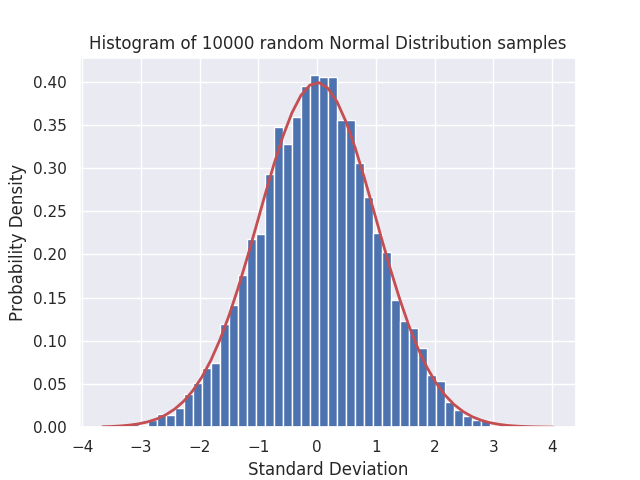
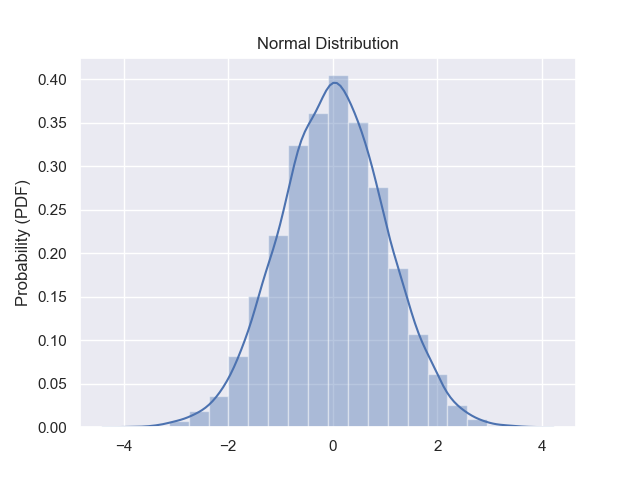
distribution plots

diff --git a/_code/distributions_demo.py b/_code/distributions_demo.py
@@ -2,7 +2,7 @@ import numpy as np
 import matplotlib.pyplot as plt
 import seaborn as sns
 import os
-from scipy.stats import skewnorm
+from scipy.stats import gamma, skewnorm, skew
 
 sns.set()
 
@@ -19,46 +19,66 @@ n = 10000  # number of samples
 normal_values = np.random.normal(mu, sigma, n)
 
 # plot histogram
-_, bins, __ = plt.hist(normal_values, 20, density=True, alpha=0.8)
-plt.title(f'Histogram of {n} Normal Distribution')
-plt.ylabel('Probability Density')
-plt.xlabel('Standard Deviation')
-
-# plot probability density function on top of histogram
-plt.plot(bins, 1/(sigma * np.sqrt(2 * np.pi)) *
-         np.exp(-(bins - mu) ** 2 / (2 * sigma ** 2)),
-         linewidth=2, color='r')
+sns.distplot(normal_values, bins=20)
+plt.title('Normal Distribution')
+plt.ylabel('Probability (PDF)')
 plt.savefig(root_dir + '/images/normal_distribution.png')
 plt.show()
+
+dist_mean = np.round(normal_values.mean(), 4)
+dist_std = np.round(normal_values.std(), 4)
+dist_skew = np.round(skew(normal_values), 4)
+print(f'Normal Skewed mean: {dist_mean}')
+print(f'Normal Skewed  std: {dist_std}')
+print(f'Normal Skewed skew: {dist_skew}\n')
+
+# plot left skewed box plot
+sns.boxplot(normal_values)
+plt.title('Normal Distribution Box Plot')
+plt.savefig(root_dir + '/images/left_skewed_boxplot.png')
+plt.show()
+
+
 
 
 # create right skewed distribution
 skew_factor = 4
-rv = skewnorm(skew_factor)
-x = np.linspace(skewnorm.ppf(0.000000001, skew_factor), skewnorm.ppf(0.9999999999, skew_factor), 100)
-x -= 10
-plt.plot(x, rv.pdf(x), 'k-', lw=2, color='r')
-right_skewed = skewnorm.rvs(skew_factor, size=10000)
-right_skewed -= 10
-plt.hist(right_skewed, 20, density=True, alpha=0.8)
-plt.title(f'Histogram of {n} Right Skewed Normal Distribution')
-plt.ylabel('Probability Density')
-plt.xlabel('Standard Deviation')
-# plt.savefig(...)
+right_skewed_values = gamma.rvs(a=skew_factor, size=10000)
+sns.distplot(right_skewed_values, kde=True, bins=20)
+plt.title(f'Right Skewed Distribution')
+plt.ylabel('Probability (PDF)')
+plt.savefig(root_dir + '/images/right_skewed_distribution.png')
 plt.show()
+
+dist_mean = np.round(right_skewed_values.mean(), 4)
+dist_std = np.round(right_skewed_values.std(), 4)
+dist_skew = np.round(skew(right_skewed_values), 4)
+print(f'Right Skewed mean: {dist_mean}')
+print(f'Right Skewed  std: {dist_std}')
+print(f'Right Skewed skew: {dist_skew}\n')
 
 
 # create left skewed distribution
-skew_factor = -4
-rv = skewnorm(skew_factor)
-x = np.linspace(skewnorm.ppf(0.000000001, skew_factor), skewnorm.ppf(0.9999999999, skew_factor), 100)
-x += 10
-plt.plot(x, rv.pdf(x), 'k-', lw=2, color='r')
-left_skewed = skewnorm.rvs(skew_factor, size=10000)
-left_skewed += 10
-plt.hist(left_skewed, 20, density=True, alpha=0.8)
-plt.title(f'Histogram of {n} Left Skewed Normal Distribution')
-plt.ylabel('Probability Density')
-plt.xlabel('Standard Deviation')
-# plt.savefig(...)
+skew_factor = -6
+left_skewed_values = skewnorm.rvs(skew_factor, size=10000)
+left_skewed_values += (-left_skewed_values.min() + 1)
+sns.distplot(left_skewed_values, bins=20)
+plt.title('Left Skewed Distribution')
+plt.ylabel('Probability (PDF)')
+plt.savefig(root_dir + '/images/left_skewed_distribution.png')
 plt.show()
+
+dist_mean = np.round(left_skewed_values.mean(), 4)
+dist_std = np.round(left_skewed_values.std(), 4)
+dist_skew = np.round(skew(left_skewed_values), 4)
+print(f'Left Skewed mean: {dist_mean}')
+print(f'Left Skewed  std: {dist_std}')
+print(f'Left Skewed skew: {dist_skew}\n')
+
+
+# plot left skewed box plot
+sns.boxplot(left_skewed_values)
+plt.title('Left Skewed Distribution Box Plot')
+plt.savefig(root_dir + '/images/left_skewed_boxplot.png')
+plt.show()
+
